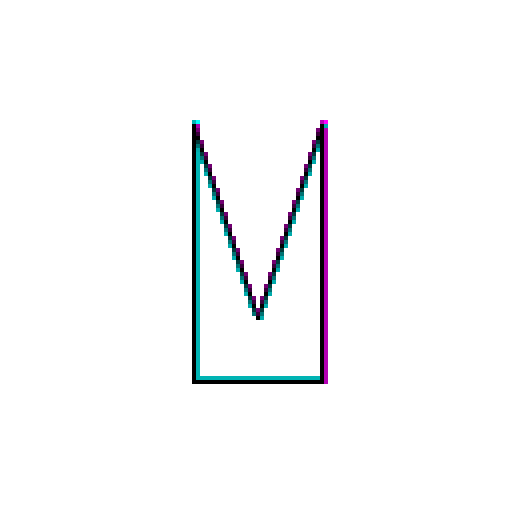
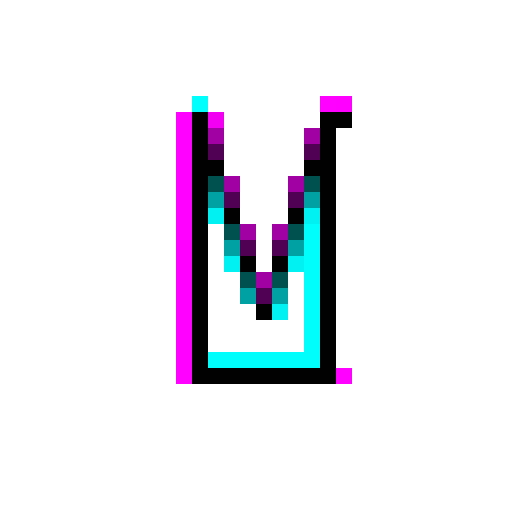
struggling with BC around endpoints and else

Changed region(s): [[0.3438, 0.1875, 0.6875, 0.75]]

diff --git a/flattenham/flattenham.cpp b/flattenham/flattenham.cpp
@@ -4,8 +4,8 @@
 #include <iostream>
 #include "display.h"
 
-constexpr int WIDTH = 128;
-constexpr int HEIGHT = 128;
+constexpr int WIDTH = 32;
+constexpr int HEIGHT = 32;
 
 double fld[WIDTH * HEIGHT]{};
 
@@ -78,7 +78,7 @@ void boundaryLine(double x0, double y0, double x1, double y1)
                 
                 double d2lsign = copysign(1.0, d2l);
                 if (d2lsign != convexconcave)
-                    continue; // is it skipped because this distance is calculated in the iteration over nodes STRICTLY BETWEEN endpoints?
+                    continue; // to skip, as the node with a normal vector's foot situated within the segment will be processed in the between-eps iteration
                 d2l = copysign(
                     sqrt((x0 - ix0 - i) * (x0 - ix0 - i) + (y0 - iy0 - j) * (y0 - iy0 - j)),
                     d2l);
@@ -359,11 +359,11 @@ int main()
     //boundaryLine(50.964843750000000, 64.992187500000000, 50.574218750000000, 64.089843750000000);
 
     double w = WIDTH, h = HEIGHT;
-    boundaryLine(3 * w / 8, 6 * h / 8, 3 * w / 8, 2 * h / 8);
+    boundaryLine(3 * w / 8 - 0.00001, 6 * h / 8, 3 * w / 8, 2 * h / 8);
     boundaryLine(3 * w / 8, 2 * h / 8, 5 * w / 8, 2 * h / 8);
-    boundaryLine(5 * w / 8, 2 * h / 8, 5 * w / 8, 6 * h / 8);
+    boundaryLine(5 * w / 8 - 0.00001, 2 * h / 8, 5 * w / 8, 6 * h / 8);
     boundaryLine(5 * w / 8, 6 * h / 8, 4 * w / 8, 3 * h / 8);
-    boundaryLine(4 * w / 8, 3 * h / 8, 3 * w / 8, 6 * h / 8);
+    boundaryLine(4 * w / 8, 3 * h / 8, 3 * w / 8, 6 * h / 8);/**/
 
     /*boundaryLine(3 * w / 8, 2 * h / 8, 5 * w / 8, 2 * h / 8);
     boundaryLine(5 * w / 8, 2 * h / 8, 4 * w / 8/* - 0.00001* /, 6 * h / 8);
